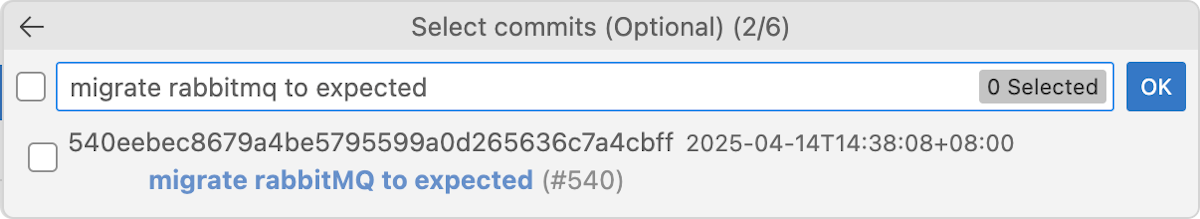
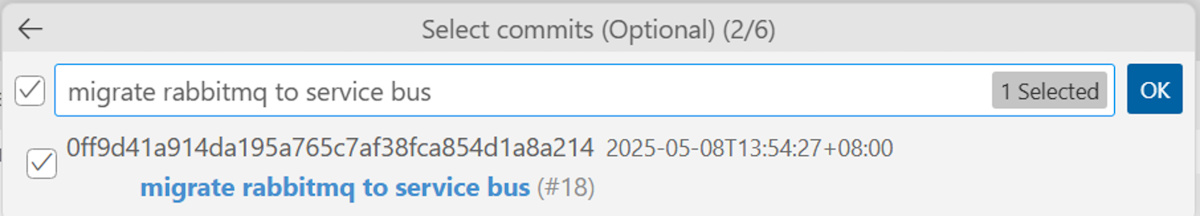
edits

diff --git a/articles/java/migration/migrate-github-copilot-app-modernization-for-java-quickstart-create-and-apply-your-own-task.md b/articles/java/migration/migrate-github-copilot-app-modernization-for-java-quickstart-create-and-apply-your-own-task.md
@@ -44,7 +44,7 @@ Use the following steps to create a custom task:
 
 1. Clone the [Java migration copilot samples](https://github.com/Azure-Samples/java-migration-copilot-samples) repository.
 
-1. In Visual Studio Code, open the **rabbitmq-sender** project folder in the samples repository. Then, check out the project to the **expected** branch.
+1. In Visual Studio Code, open the **rabbitmq-sender** project folder in the samples repository. Then, check out the project to the **source** branch.
 
 1. In the **Activity** sidebar, open the **App Modernization for Java** extension pane and then, in the **Tasks - Custom** section, select **Create Custom Task**.
 
@@ -54,7 +54,7 @@ Use the following steps to create a custom task:
 
    :::image type="content" source="./media/migrate-github-copilot-app-modernization-for-java/select-create-custom-task.png" lightbox="./media/migrate-github-copilot-app-modernization-for-java/select-create-custom-task.png" alt-text="Screenshot of Visual Studio Code that shows the Create new task option.":::
 
-1. Type **migrate rabbitmq to expected** to search for the commit that migrates RabbitMQ. Select the corresponding commit and then select **OK**.
+1. Type **migrate rabbitmq to service bus** to search for the commit that migrates RabbitMQ. Select the corresponding commit and then select **OK**.
 
    :::image type="content" source="./media/migrate-github-copilot-app-modernization-for-java/commit-for-custom-task.png" lightbox="./media/migrate-github-copilot-app-modernization-for-java/commit-for-custom-task.png" alt-text="Screenshot of the Visual Studio Code dialog box with the heading Select commits you want to save.":::
 

diff --git a/articles/java/migration/migrate-github-copilot-app-modernization-for-java-quickstart-assess-migrate.md b/articles/java/migration/migrate-github-copilot-app-modernization-for-java-quickstart-assess-migrate.md
@@ -51,7 +51,7 @@ For more information, see [Install a VS Code extension](https://code.visualstudi
 
 Use the following steps to start your migration process with solution assessment. This assessment helps you understand what your cloud readiness challenges are and how impactful they are, provides recommended solutions. A solution recommendation includes references to set up Azure resources, add configurations, and make code changes.
 
-1. Clone the [Java migration copilot samples](https://github.com/Azure-Samples/java-migration-copilot-samples) repository, and check out to the **source** branch.
+1. Clone the [Java migration copilot samples](https://github.com/Azure-Samples/java-migration-copilot-samples) repository and then check out to the **source** branch.
 
 1. In Visual Studio Code, open the **mi-sql-public-demo** project folder in the samples repository.
 
